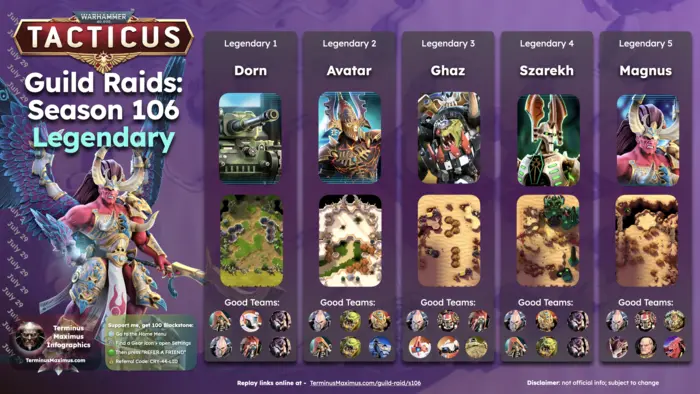
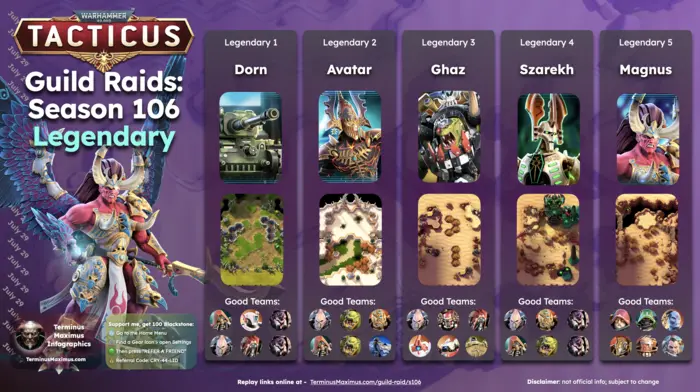
revised s106 and lysander assets

diff --git a/src/data/graphics.ts b/src/data/graphics.ts
@@ -32,8 +32,6 @@ export const graphics = [
       href: "/guild-raid/boss-meta/",
       image: "/images/boss-meta.png",
       thumbnail: "/images/thumbnails/boss-meta-thumb.png",
-      badge: "Updated",
-      badge: "Popular",
       category: "raid"
     },
     {
